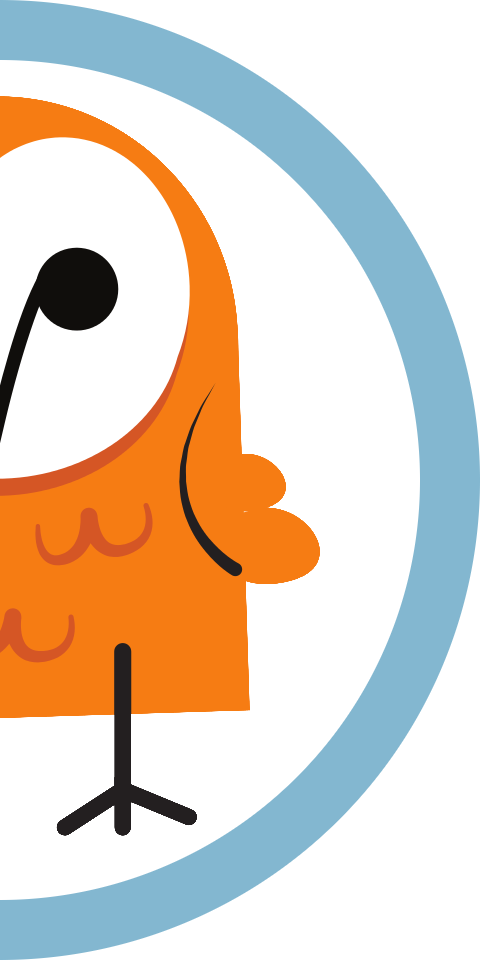
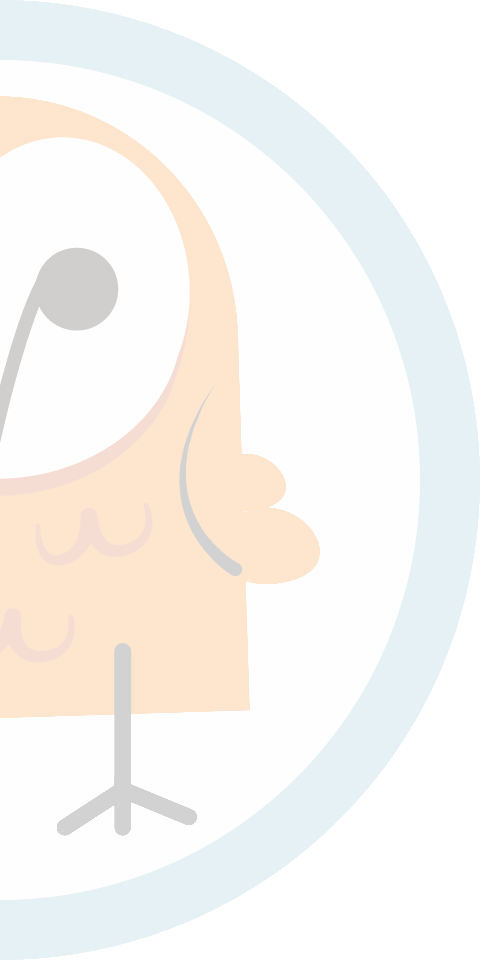
Boldened hero text, softened background image

diff --git a/index.html b/index.html
@@ -181,12 +181,11 @@
 
     <!----- Herowl ----->
     <div class="herowl">
-      <div class="col-xs-12 col-sm-10 col-lg-6 offset-lg-4 col-xl-6
-                  offset-xl-2">
+      <div class="col-xs-12 col-sm-10 col-lg-8 col-xxl-6">
         <div class="card">
-          <div class="card-body">
-            <h1 class="card-title"> Web Style Guide </h1>
-            <p class="card-text"> For reelyActive web pages and web applications </p>
+          <div class="card-body py-4">
+            <h1 class="display-4 card-title"> Web Style Guide </h1>
+            <p class="lead card-text"> For reelyActive web pages and web applications </p>
           </div>
         </div>
         <a href="#content">
